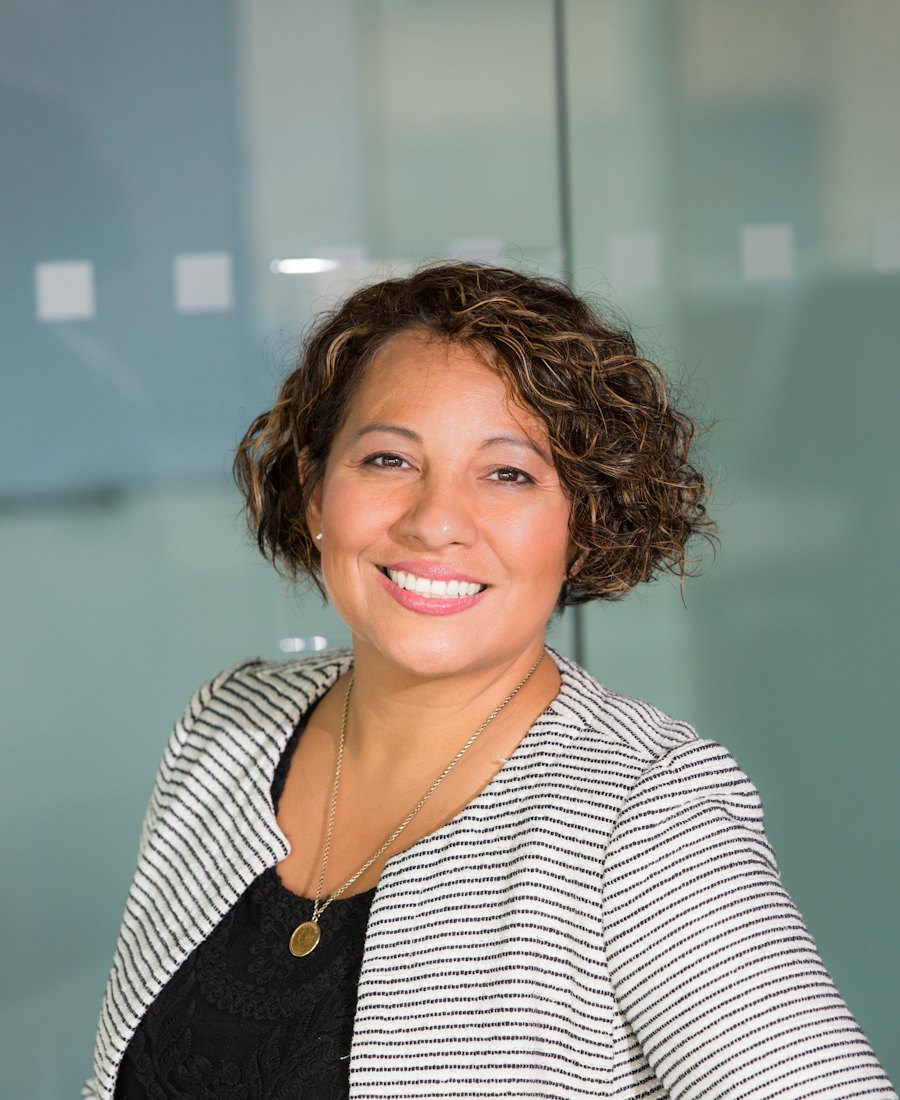
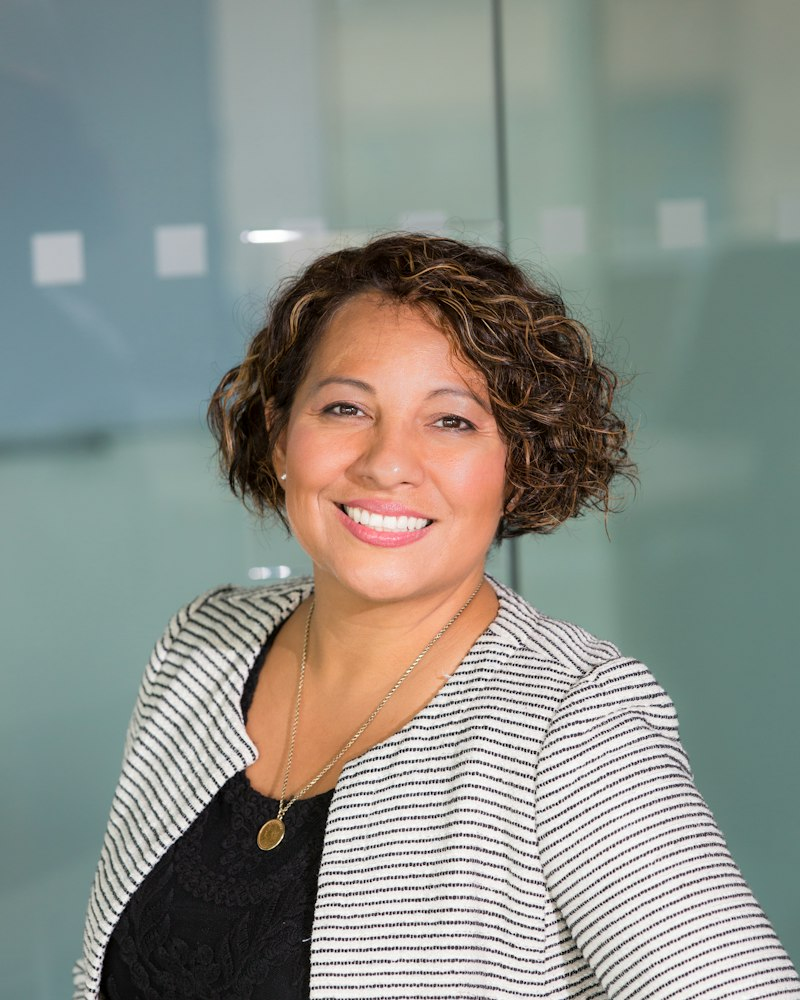
feat(site): Enhance hero section with responsive imagery and refactor stats card styling
- Add responsive hero image with mobile-specific asset (hero-mobile.jpg) using picture element
- Implement improved gradient overlay with dual-direction layering for better text legibility
- Overlay stats section as floating card with shadow and rounded corners over hero section
- Update hero dimensions and refactor image positioning for improved visual hierarchy
- Enhance text contrast with text-shadow on hero title and description
- Add light menu styling for readability over hero background image on desktop
- Update stats grid layout with divider lines between items instead of left borders
- Refactor proprietaria image dimensions and update about section spacing
- Improve overall hero visual composition and mobile responsive behavior

diff --git a/public/assets/css/site.css b/public/assets/css/site.css
@@ -100,29 +100,49 @@ a:focus-visible, button:focus-visible, input:focus-visible, select:focus-visible
 .nav-toggle span { width: 24px; height: 2px; background: #fff; transition: .25s; }
 
 /* --- Hero ----------------------------------------------------------------- */
-.hero { position: relative; min-height: min(92vh, 860px); display: flex; align-items: center; overflow: hidden; background: var(--dark); }
-.hero__img { position: absolute; inset: 0; width: 100%; height: 100%; object-fit: cover; object-position: center 60%; }
-.hero__shade { position: absolute; inset: 0; background: linear-gradient(90deg, rgba(20,18,15,.88) 0%, rgba(20,18,15,.66) 45%, rgba(20,18,15,.25) 100%); }
-.hero__inner { position: relative; z-index: 2; padding-top: 120px; padding-bottom: 90px; }
-.hero__content { max-width: 640px; }
-.hero__title { color: #fff; font-size: clamp(2.2rem, 1.3rem + 3.4vw, 3.7rem); margin-bottom: 22px; }
+/* Hero em tela cheia. A camada escura cobre o topo (menu) e o lado do texto,
+   garantindo legibilidade sobre qualquer trecho da foto. */
+.hero { position: relative; min-height: min(100vh, 1080px); min-height: min(100svh, 1080px); display: flex; align-items: center; overflow: hidden; background: var(--dark); }
+.hero picture { position: absolute; inset: 0; }
+.hero__img { width: 100%; height: 100%; object-fit: cover; object-position: center center; }
+.hero__shade {
+    position: absolute; inset: 0;
+    background:
+        linear-gradient(180deg, rgba(14,12,10,.70) 0%, rgba(14,12,10,0) 22%),
+        linear-gradient(90deg, rgba(14,12,10,.86) 0%, rgba(14,12,10,.72) 38%, rgba(14,12,10,.30) 68%, rgba(14,12,10,.12) 100%);
+}
+.hero__inner { position: relative; z-index: 2; padding-top: 140px; padding-bottom: 170px; }
+.hero__content { max-width: 620px; }
+.hero__title { color: #fff; font-size: clamp(2.3rem, 1.3rem + 3.4vw, 3.8rem); margin-bottom: 22px; text-shadow: 0 2px 24px rgba(0,0,0,.35); }
 .hero__title em { font-style: normal; color: var(--gold); }
-.hero__text { color: rgba(255,255,255,.85); font-size: 1.15rem; max-width: 520px; margin-bottom: 36px; }
+.hero__text { color: #fff; font-size: 1.15rem; max-width: 520px; margin-bottom: 36px; text-shadow: 0 1px 12px rgba(0,0,0,.45); }
+.hero .eyebrow--light { color: #e2c98d; }
 .hero__actions { display: flex; gap: 14px; flex-wrap: wrap; }
+.hero .btn--ghost-light { background: rgba(14,12,10,.35); border-color: rgba(255,255,255,.75); backdrop-filter: blur(4px); }
 
-/* --- Números -------------------------------------------------------------- */
-.stats { background: var(--white); border-bottom: 1px solid var(--line); }
-.stats__grid { display: grid; grid-template-columns: repeat(4, 1fr); }
-.stat { padding: 38px 24px; display: flex; flex-direction: column; gap: 4px; border-left: 1px solid var(--line); }
-.stat:first-child { border-left: 0; padding-left: 0; }
-.stat strong { font-family: 'Fraunces', serif; font-weight: 500; font-size: clamp(1.7rem, 1.2rem + 1.4vw, 2.3rem); color: var(--ink); line-height: 1.1; }
-.stat span { font-size: 14px; color: var(--muted); }
+/* Menu legível sobre a foto (apenas desktop; no mobile o menu abre na gaveta escura) */
+@media (min-width: 761px) {
+    .site-header:not(.is-scrolled):not(.site-header--solid) .site-nav a { color: #fff; text-shadow: 0 1px 10px rgba(0,0,0,.5); }
+    .site-header:not(.is-scrolled):not(.site-header--solid) .site-nav__cta { background: rgba(14,12,10,.35); text-shadow: none; }
+}
+
+/* --- Números (cartão sobreposto ao fim do hero) -------------------------- */
+.stats { position: relative; z-index: 3; margin-top: -96px; }
+.stats__grid {
+    display: grid; grid-template-columns: repeat(4, 1fr);
+    background: #fff; border-radius: 14px;
+    box-shadow: 0 24px 60px rgba(28,26,23,.14), 0 2px 8px rgba(28,26,23,.05);
+}
+.stat { padding: 34px 30px; display: flex; flex-direction: column; gap: 6px; position: relative; }
+.stat + .stat::before { content: ""; position: absolute; left: 0; top: 28%; bottom: 28%; width: 1px; background: var(--line); }
+.stat strong { font-family: 'Fraunces', serif; font-weight: 500; font-size: clamp(1.7rem, 1.2rem + 1.3vw, 2.25rem); color: var(--ink); line-height: 1.1; }
+.stat span { font-size: 14px; color: var(--muted); line-height: 1.4; }
 
 /* --- Quem somos ----------------------------------------------------------- */
-.about { display: grid; grid-template-columns: 5fr 7fr; gap: 72px; align-items: center; }
-.about__photo { margin: 0; position: relative; }
-.about__photo::before { content: ""; position: absolute; inset: 22px -22px -22px 22px; border: 1px solid var(--gold); z-index: 0; }
-.about__photo img { position: relative; z-index: 1; width: 100%; aspect-ratio: 4 / 5; object-fit: cover; object-position: center 20%; }
+.about { display: grid; grid-template-columns: 5fr 7fr; gap: 80px; align-items: center; }
+.about__photo { margin: 0; position: relative; max-width: 440px; width: 100%; }
+.about__photo::before { content: ""; position: absolute; inset: 20px -20px -20px 20px; border: 1px solid var(--gold); border-radius: 10px; z-index: 0; }
+.about__photo img { position: relative; z-index: 1; width: 100%; height: auto; aspect-ratio: 4 / 5; object-fit: cover; object-position: center 25%; border-radius: 10px; }
 .about__text p { font-size: 1.04rem; }
 .about__list { margin-top: 26px; display: grid; gap: 12px; }
 .about__list li { display: flex; align-items: center; gap: 12px; color: var(--ink); font-weight: 500; }
@@ -234,13 +254,13 @@ a:focus-visible, button:focus-visible, input:focus-visible, select:focus-visible
 @media (max-width: 900px) {
     .site-nav { gap: 22px; }
     .about { grid-template-columns: 1fr; }
-    .about__photo { max-width: 420px; }
+    .about__photo { max-width: 380px; }
     .cta { grid-template-columns: 1fr; }
     .stats__grid { grid-template-columns: repeat(2, 1fr); }
-    .stat { padding: 28px 20px; border-left: 0; border-top: 1px solid var(--line); }
-    .stat:nth-child(odd) { padding-left: 0; }
-    .stat:nth-child(even) { border-left: 1px solid var(--line); }
-    .stat:nth-child(-n+2) { border-top: 0; }
+    .stat { padding: 26px 24px; }
+    .stat + .stat::before { display: none; }
+    .stat:nth-child(even)::after { content: ""; position: absolute; left: 0; top: 24%; bottom: 24%; width: 1px; background: var(--line); }
+    .stat:nth-child(n+3) { border-top: 1px solid var(--line); }
     .site-footer__grid { grid-template-columns: 1fr 1fr; }
 }
 
@@ -274,16 +294,23 @@ a:focus-visible, button:focus-visible, input:focus-visible, select:focus-visible
 
     .brand__logo { height: 36px; }
 
-    .hero { min-height: 0; }
-    .hero__shade { background: linear-gradient(180deg, rgba(20,18,15,.72) 0%, rgba(20,18,15,.84) 100%); }
-    .hero__inner { padding-top: 120px; padding-bottom: 64px; }
-    .hero__title { font-size: 2rem; }
+    .hero { align-items: flex-end; min-height: min(100svh, 860px); }
+    .hero__img { object-position: center 72%; }
+    .hero__shade { background: linear-gradient(180deg, rgba(14,12,10,.72) 0%, rgba(14,12,10,.35) 30%, rgba(14,12,10,.55) 55%, rgba(14,12,10,.92) 100%); }
+    .hero__inner { padding-top: 120px; padding-bottom: 130px; }
+    .hero__title { font-size: 2.05rem; }
     .hero__text { font-size: 1rem; margin-bottom: 28px; }
     .hero__actions { flex-direction: column; }
     .hero__actions .btn { width: 100%; }
 
-    .about { gap: 48px; }
-    .about__photo { max-width: none; margin-right: 22px; }
+    .stats { margin-top: -72px; }
+    .stats__grid { border-radius: 12px; }
+    .stat { padding: 20px 18px; }
+    .stat strong { font-size: 1.55rem; }
+    .stat span { font-size: 12.5px; }
+
+    .about { gap: 44px; }
+    .about__photo { max-width: 320px; margin: 0 auto; }
     .about__text p { font-size: .98rem; }
 
     .services { grid-template-columns: 1fr; }

diff --git a/app/Views/site/home.php b/app/Views/site/home.php
@@ -15,7 +15,10 @@ $waLink = static fn (string $msg): string => 'https://wa.me/' . $whats . '?text=
 
 <!-- ============================ HERO ============================ -->
 <section class="hero">
-    <img class="hero__img" src="<?= e(asset('img/hero.jpg')) ?>" alt="" width="1920" height="1280" fetchpriority="high" decoding="async">
+    <picture>
+        <source media="(max-width: 760px)" srcset="<?= e(asset('img/hero-mobile.jpg')) ?>">
+        <img class="hero__img" src="<?= e(asset('img/hero.jpg')) ?>" alt="" width="2400" height="1632" fetchpriority="high" decoding="async">
+    </picture>
     <div class="hero__shade" aria-hidden="true"></div>
     <div class="container hero__inner">
         <div class="hero__content reveal">
@@ -33,11 +36,11 @@ $waLink = static fn (string $msg): string => 'https://wa.me/' . $whats . '?text=
 <!-- ============================ NÚMEROS ============================ -->
 <section class="stats" aria-label="Números da DMR">
     <div class="container">
-        <ul class="stats__grid">
+        <ul class="stats__grid reveal">
             <li class="stat"><strong>30+</strong><span>anos no mercado imobiliário</span></li>
             <li class="stat"><strong>100 mil+</strong><span>unidades financiadas</span></li>
             <li class="stat"><strong>5</strong><span>grandes bancos parceiros</span></li>
-            <li class="stat"><strong>Ponta a ponta</strong><span>da análise à entrega das chaves</span></li>
+            <li class="stat"><strong>100%</strong><span>do processo acompanhado, até as chaves</span></li>
         </ul>
     </div>
 </section>
@@ -46,7 +49,7 @@ $waLink = static fn (string $msg): string => 'https://wa.me/' . $whats . '?text=
 <section class="section" id="sobre">
     <div class="container about">
         <figure class="about__photo reveal">
-            <img src="<?= e(asset('img/proprietaria.jpg')) ?>" alt="Fundadora da DMR Assessoria Imobiliária" width="900" height="1100" loading="lazy" decoding="async">
+            <img src="<?= e(asset('img/proprietaria.jpg')) ?>" alt="Fundadora da DMR Assessoria Imobiliária" width="800" height="1000" loading="lazy" decoding="async">
         </figure>
         <div class="about__text reveal">
             <span class="eyebrow">Quem é a DMR</span>
